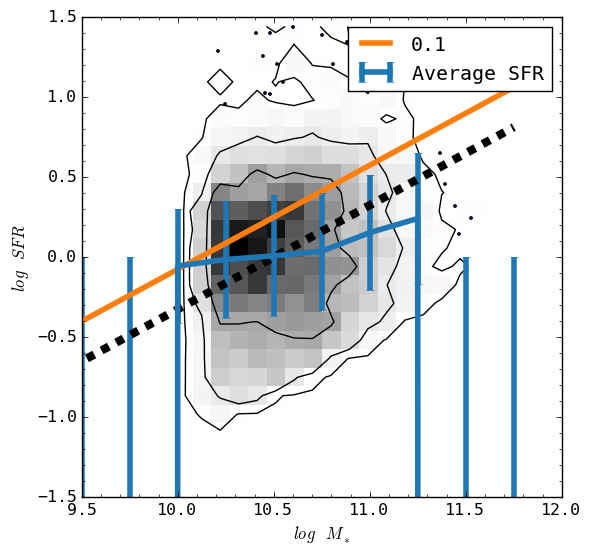
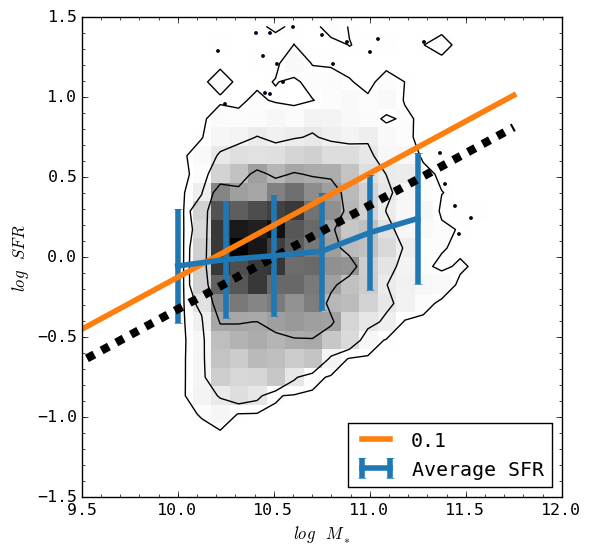
QAplots for SF-MS fitting complete

Changed region(s): [[0.122, 0.0306, 0.9458, 0.8867], [0.5797, 0.4281, 0.9458, 0.8867], [0.2746, 0.5504, 0.3051, 0.8867]]

diff --git a/plotting/test_sfms.py b/plotting/test_sfms.py
@@ -67,17 +67,18 @@ def qaplot_sfms_groupcat_fitting(Mrcut=18):
             mass_bin,
             Mrcut=Mrcut
             ) 
+    enough_gal = np.where(np.array(avg_sfrs) > -998)
 
     plt.errorbar(
-            mass_bin, 
-            avg_sfrs, 
-            yerr = sig_sfrs, 
+            mass_bin[enough_gal], 
+            np.array(avg_sfrs)[enough_gal], 
+            yerr = np.array(sig_sfrs)[enough_gal], 
             lw = 4, 
             c = pretty_colors[1], 
             label='Average SFR'
             )
     
-    plt.legend()
+    plt.legend(loc='lower right')
     
     fig_name = ''.join(['figure/', 'qaplot_sfms_fitting_groupcat_', str(Mrcut), '.png'])
     plt.savefig(fig_name, bbox_inches='tight')
@@ -164,25 +165,24 @@ def qaplot_sfms_envcount_fitting(Mrcut=18):
             mass_bin,
             [z_mid for i in xrange(len(mass_bin))]
             ) 
+        enough_gal = np.where(np.array(avg_sfrs) > -998)
 
         plt.errorbar(
-                mass_bin, 
-                avg_sfrs, 
-                yerr = sig_sfrs, 
+                mass_bin[enough_gal], 
+                np.array(avg_sfrs)[enough_gal], 
+                yerr = np.array(sig_sfrs)[enough_gal], 
                 lw = 4, 
                 c = pretty_colors[1], 
                 label='Average SFR'
                 )
 
-        plt.legend()
+        plt.legend(loc='lower right')
         
         fig_name = ''.join(['figure/', 'qaplot_sfms_fitting_envcount_z', str(z_mid), '.png'])
         plt.savefig(fig_name, bbox_inches='tight')
         plt.close()
 
     return None
-
-    
 
 if __name__=="__main__":
     qaplot_sfms_groupcat_fitting(Mrcut=18)
